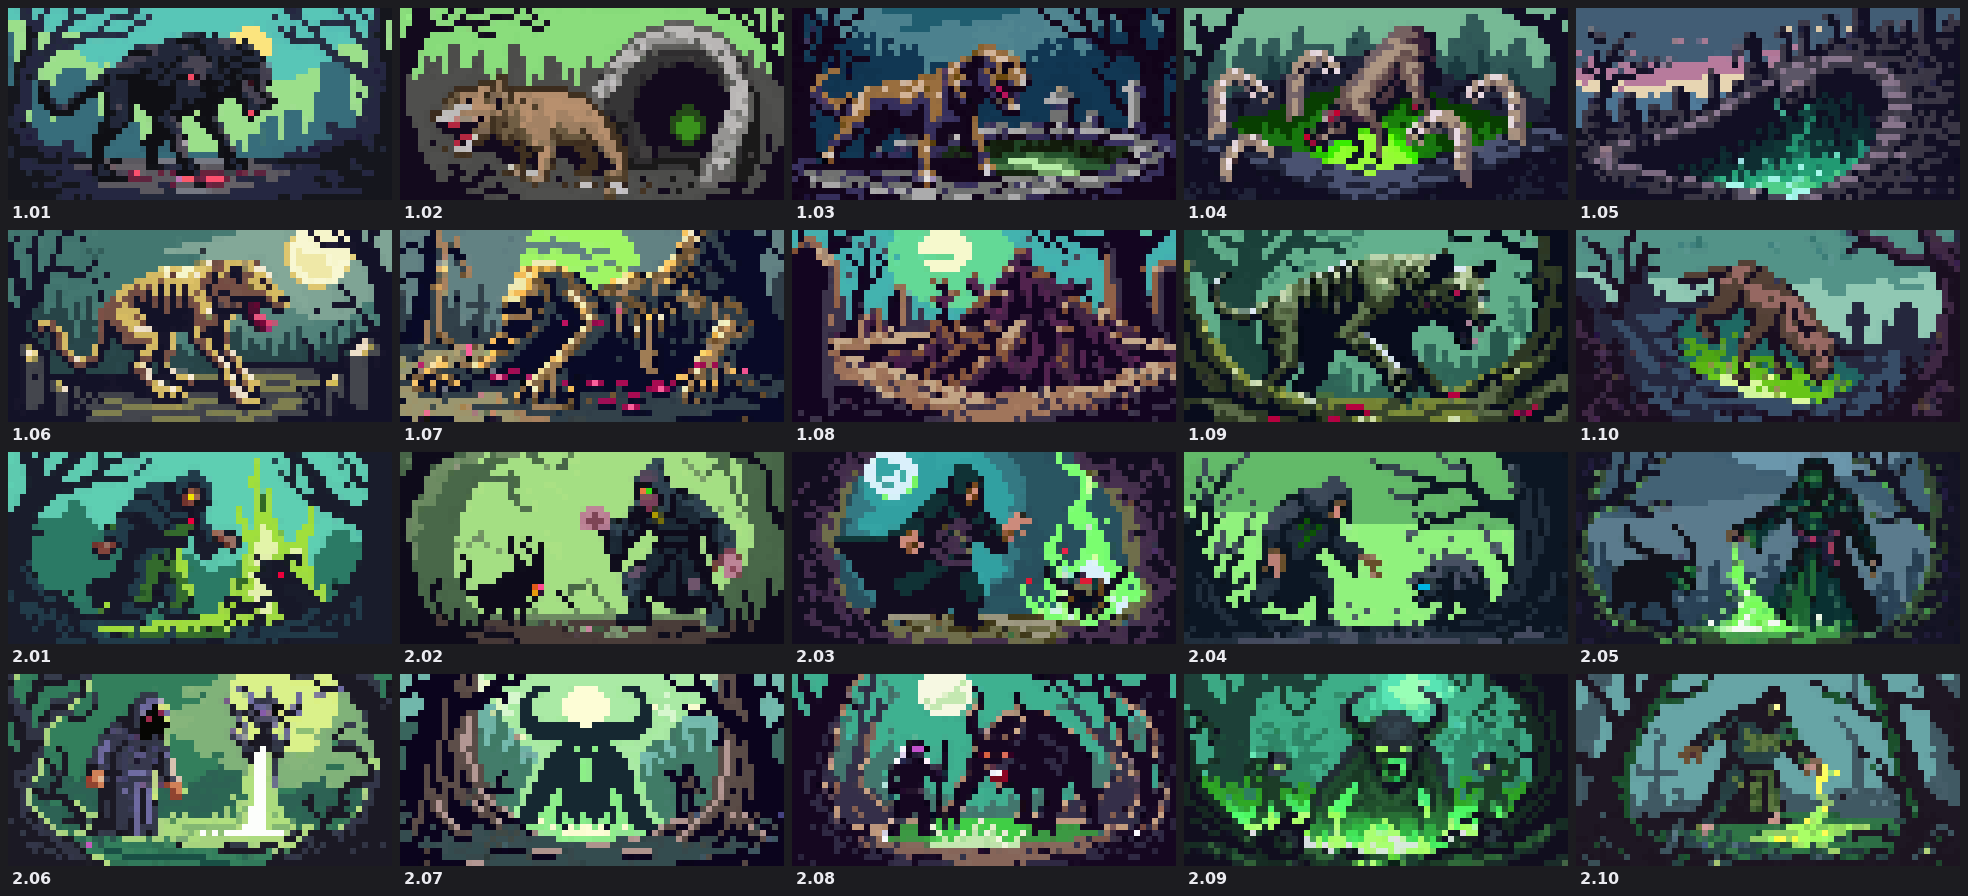
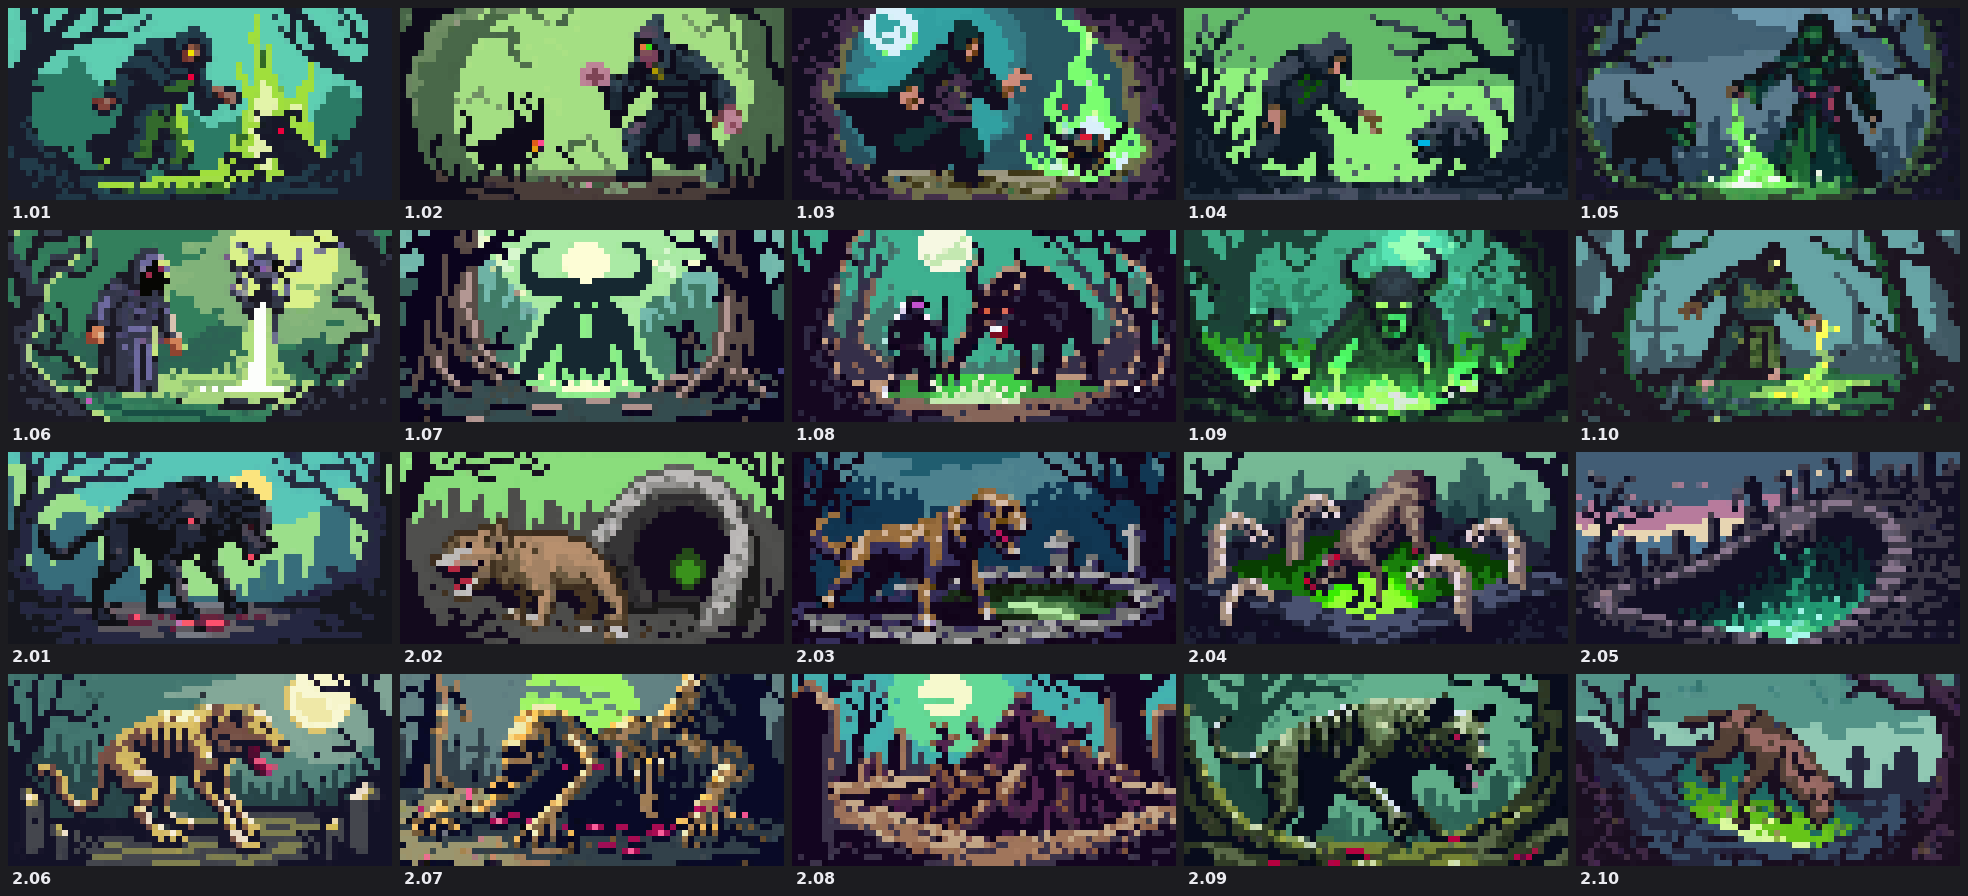
Durability fix: committed reset-proof art-eval harness + skill snapshots + run-root seeds
Root cause: container restores from a snapshot near 9923e7a, wiping any uncommitted
file. C2 variant and shared seed pools lived in gitignored locations and got wiped
mid-session (one treatment arm silently ran control). Fixes: harness.py (single
source of truth, deterministic seeds/labels, preflight + selftest), committed
control+variant snapshots, seeds migrated to committed run-root, unarted-only
selection guard, done_cards.txt. Verified: pixflux smoke PASS, selftest PASS,
vile_edict preflight PASS (0 byte-identical cross-arm pairs).

https://claude.ai/code/session_01Ay6YkAXXSZzeTgcias3gJ7

diff --git a/art-eval/harness.py b/art-eval/harness.py
@@ -1,0 +1,210 @@
+#!/usr/bin/env python3
+"""Art-skill A/B harness — committed, reset-proof single source of truth.
+
+WHY THIS EXISTS: the execution container restores from a snapshot pinned near an
+older commit. Every restore rewinds the working tree and DELETES anything not
+committed-and-pushed (and resets .git/info/exclude). Earlier rounds lost the C2
+variant file and the shared seed pool because they lived in gitignored locations
+(.claude/skills/... and art-eval/runs/<run>/_meta/). This module keeps every
+harness input either (a) deterministically recomputable from the card name, or
+(b) at a committed path, so a mid-round reset can never silently corrupt a round.
+
+USAGE
+  python3 art-eval/harness.py pool                 # list unarted, not-done cards
+  python3 art-eval/harness.py pick [salt]          # deterministic card pick
+  python3 art-eval/harness.py init <run> <card>    # make dirs + committed seeds.json
+  python3 art-eval/harness.py preflight <run>      # verify a round before judging
+  python3 art-eval/harness.py sheet <run> <card>   # build blind contact sheet
+  python3 art-eval/harness.py decode <run>         # reveal which label is control/treatment
+  python3 art-eval/harness.py selftest             # check stack health (no pixflux)
+
+INVARIANTS enforced:
+  - card MUST be unarted (no reference/.../art.png) and not in done_cards.txt
+  - seeds.json lives at run ROOT (committed), never under _meta/ (gitignored)
+  - both arms MUST share the identical seed pool
+  - the C2 variant is read from art-eval/variants/SKILL-c2-variant.md (committed)
+    and MUST differ from the control base by exactly the diagnosable-flaw paragraph
+"""
+import sys, os, json, glob, re, random, hashlib
+from pathlib import Path
+
+ROOT     = Path(__file__).resolve().parent.parent
+CARDS    = ROOT / "reference/html-proto/cards"
+RUNS     = ROOT / "art-eval/runs"
+VARIANTS = ROOT / "art-eval/variants"
+SHEETS   = ROOT / "docs/art-eval-sheets"
+DONEFILE = ROOT / "art-eval/done_cards.txt"
+
+CONTROL_SKILL = VARIANTS / "SKILL-control.md"
+C2_VARIANT    = VARIANTS / "SKILL-c2-variant.md"
+
+def stable_int(s: str) -> int:
+    """Deterministic across machines/python versions (built-in hash() is not)."""
+    return int(hashlib.md5(s.encode()).hexdigest(), 16)
+
+def done_set() -> set:
+    if not DONEFILE.exists():
+        return set()
+    return {l.strip() for l in DONEFILE.read_text().splitlines()
+            if l.strip() and not l.startswith("#")}
+
+def unarted_pool() -> list:
+    out = []
+    for d in sorted(CARDS.iterdir()):
+        if not d.is_dir():
+            continue
+        if (d / "art.png").exists():       # already has art -> not eligible
+            continue
+        out.append(d.name)
+    return out
+
+def candidates() -> list:
+    done = done_set()
+    return [c for c in unarted_pool() if c not in done]
+
+def pick_card(salt: str = "") -> str:
+    cands = candidates()
+    if not cands:
+        raise SystemExit("no eligible cards left")
+    return random.Random(stable_int("pick:" + salt)).choice(cands)
+
+def seeds_for(card: str, n: int = 10) -> list:
+    rng = random.Random(stable_int("seeds:" + card))
+    return [rng.randint(1, 2_147_483_646) for _ in range(n)]
+
+def label_map(card: str) -> dict:
+    """Deterministic, recomputable blind labels. arm_a/arm_b -> '1'/'2'.
+    Recomputable from the card name alone, so a reset can't lose the answer key."""
+    swap = stable_int("label:" + card) % 2 == 1
+    return {"1": "arm_b", "2": "arm_a"} if swap else {"1": "arm_a", "2": "arm_b"}
+
+def variant_ok() -> tuple:
+    """Return (ok, msg). Variant must be control + exactly the C2 paragraph."""
+    if not C2_VARIANT.exists() or not CONTROL_SKILL.exists():
+        return False, "missing committed skill snapshot(s) under art-eval/variants/"
+    ctrl = CONTROL_SKILL.read_text().splitlines()
+    var  = C2_VARIANT.read_text().splitlines()
+    added = [l for l in var if l not in ctrl]
+    sig = "diagnosable-flaw"
+    if not any(sig in l for l in added):
+        return False, "variant does not contain the C2 diagnosable-flaw paragraph"
+    return True, f"variant = control + {len(added)} added line(s) incl. C2 paragraph"
+
+def _real_gens(armdir: Path) -> list:
+    return sorted([f for f in armdir.glob("gen_*_seed*.png") if "_8x" not in f.name],
+                  key=lambda f: int(re.search(r"gen_(\d+)_seed", f.name).group(1)))
+
+def init_run(run: str, card: str):
+    if (CARDS / card / "art.png").exists():
+        raise SystemExit(f"REFUSED: {card} already has art.png (not an unarted card)")
+    if card in done_set():
+        raise SystemExit(f"REFUSED: {card} is in done_cards.txt")
+    rd = RUNS / run
+    for a in ("arm_a", "arm_b", "_meta"):
+        (rd / a).mkdir(parents=True, exist_ok=True)
+    seeds = seeds_for(card)
+    (rd / "seeds.json").write_text(json.dumps(seeds))   # run-root => COMMITTED
+    print(f"init {run} for {card}")
+    print("seeds (committed at run-root):", seeds)
+    print("control skill :", CONTROL_SKILL)
+    print("variant skill :", C2_VARIANT)
+    ok, msg = variant_ok(); print("variant check :", "OK" if ok else "FAIL", "-", msg)
+
+def preflight(run: str):
+    rd = RUNS / run
+    sj = rd / "seeds.json"
+    problems = []
+    if not sj.exists():
+        problems.append("seeds.json missing at run-root (was it left in gitignored _meta/?)")
+        pool = None
+    else:
+        pool = sorted(json.loads(sj.read_text()))
+    for arm in ("arm_a", "arm_b"):
+        gens = _real_gens(rd / arm)
+        if len(gens) == 0:
+            problems.append(f"{arm}: no gens"); continue
+        seeds = sorted(int(re.search(r"seed(\d+)", g.name).group(1)) for g in gens)
+        if pool is not None and seeds != pool:
+            problems.append(f"{arm}: seeds do not match shared pool")
+        print(f"{arm}: {len(gens)} gens, seeds match pool: {pool is not None and seeds==pool}")
+    # contamination heuristic: arms must not be byte-identical pairwise
+    a = {re.search(r'seed(\d+)', g.name).group(1): g for g in _real_gens(rd/'arm_a')}
+    b = {re.search(r'seed(\d+)', g.name).group(1): g for g in _real_gens(rd/'arm_b')}
+    ident = sum(1 for s in a if s in b and a[s].read_bytes() == b[s].read_bytes())
+    if ident:
+        problems.append(f"{ident} arm_a/arm_b gens are BYTE-IDENTICAL (possible control-vs-control)")
+    print(f"byte-identical cross-arm pairs: {ident} (want 0)")
+    ok, msg = variant_ok(); print("variant check:", "OK" if ok else "FAIL", "-", msg)
+    if problems:
+        print("PREFLIGHT: FAIL"); [print("  -", p) for p in problems]; sys.exit(1)
+    print("PREFLIGHT: PASS")
+
+def build_sheet(run: str, card: str):
+    from PIL import Image, ImageDraw, ImageFont
+    rd = RUNS / run
+    SCALE, LABEL_H, PAD, COLS = 6, 22, 8, 5
+    CW, CH = 64 * SCALE, 32 * SCALE
+    m = label_map(card)
+    cells = []
+    for lbl in ("1", "2"):
+        for i, f in enumerate(_real_gens(rd / m[lbl]), 1):
+            cells.append((f"{lbl}.{i:02d}", f))
+    rows = (len(cells) + COLS - 1) // COLS
+    W = COLS * CW + (COLS + 1) * PAD
+    H = rows * (CH + LABEL_H) + (rows + 1) * PAD
+    sheet = Image.new("RGB", (W, H), (28, 28, 32)); d = ImageDraw.Draw(sheet)
+    try:    font = ImageFont.truetype("/usr/share/fonts/truetype/dejavu/DejaVuSans-Bold.ttf", 16)
+    except: font = ImageFont.load_default()
+    for idx, (label, f) in enumerate(cells):
+        r, c = divmod(idx, COLS)
+        x = PAD + c * (CW + PAD); y = PAD + r * (CH + LABEL_H + PAD)
+        sheet.paste(Image.open(f).convert("RGB").resize((CW, CH), Image.NEAREST), (x, y))
+        d.text((x + 4, y + CH + 3), label, fill=(235, 235, 240), font=font)
+    SHEETS.mkdir(parents=True, exist_ok=True)
+    out = SHEETS / f"{card}_c2ab_sheet.png"
+    sheet.save(out)
+    # answer key stays in gitignored _meta/ (out of the user's blind view); also recomputable
+    (rd / "_meta").mkdir(parents=True, exist_ok=True)
+    (rd / "_meta" / "blind_map.json").write_text(json.dumps(m))
+    print(f"sheet: {sheet.size} -> {out}")
+    print("(label mapping is recomputable via `decode`; not revealed here)")
+
+def decode(run: str):
+    # infer card from run name suffix
+    card = run.split("-", 2)[-1]
+    m = label_map(card)
+    roles = {"arm_a": "CONTROL (SKILL-control.md)", "arm_b": "TREATMENT (C2 variant)"}
+    inv = {v: k for k, v in m.items()}
+    print(f"run={run} card={card}")
+    print(f"  label 1 = {m['1']} = {roles[m['1']]}")
+    print(f"  label 2 = {m['2']} = {roles[m['2']]}")
+    print(f"  control shown as label {inv['arm_a']}; treatment shown as label {inv['arm_b']}")
+
+def selftest():
+    print("=== art-eval harness selftest (no pixflux) ===")
+    print("repo root      :", ROOT)
+    print("unarted cards  :", len(unarted_pool()))
+    print("done cards     :", len(done_set()))
+    print("eligible cards :", len(candidates()))
+    ok, msg = variant_ok(); print("variant check  :", "OK" if ok else "FAIL", "-", msg)
+    tok = (ROOT / ".claude/skills/magiclike-card-art/pixellab-token")
+    print("token present  :", tok.exists(),
+          "(format ok)" if tok.exists() and tok.read_text().strip().lower().startswith("bearer ") else "")
+    # determinism check
+    c = "lightning_bolt"
+    print("determinism    : seeds_for(%s)[0]=%d (stable), label1=%s" %
+          (c, seeds_for(c)[0], label_map(c)["1"]))
+    print("SELFTEST:", "PASS" if ok and tok.exists() else "FAIL")
+
+if __name__ == "__main__":
+    if len(sys.argv) < 2:
+        print(__doc__); sys.exit(0)
+    cmd = sys.argv[1]; a = sys.argv[2:]
+    {"pool":     lambda: print("\n".join(candidates())),
+     "pick":     lambda: print(pick_card(a[0] if a else "")),
+     "init":     lambda: init_run(a[0], a[1]),
+     "preflight":lambda: preflight(a[0]),
+     "sheet":    lambda: build_sheet(a[0], a[1]),
+     "decode":   lambda: decode(a[0]),
+     "selftest": selftest,
+    }.get(cmd, lambda: print(f"unknown cmd {cmd}\n{__doc__}"))()

diff --git a/docs/art-eval-findings.md b/docs/art-eval-findings.md
@@ -297,3 +297,21 @@ IMPLICATION: the LLM judge is usable as a COARSE pre-filter (cull obvious losers
 - **Card-selection error:** I shuffled the html-proto card list without filtering on art presence; prodigal_sorcerer **already has `art.png`**. The harness pool is supposed to be *unarted* cards only. The done-set cards (horned_herald, old_guardian, bindspeaker, knight_commander, mirror_sage, apex_hunter, …) all have NO `art.png` — that IS the selection criterion. **FIX (binding): only draw cards from `reference/html-proto/cards/<c>/` that lack an `art.png` file** (121 such cards remain, minus the done set). Built the corrected pool.
 - Round still ran (control SKILL.md vs C2-variant, shared 10-seed pool, blind sheet `prodigal_sorcerer_c2ab_sheet.png`). **User read: disliked ALL; slight lean to 2.x.** Decoding the blind map: label 2 = arm_a = **control**. So a faint anti-treatment lean — but on a disqualified card, so **NOT counted** toward the C2 n>=7 tally.
 - Art kept committed (downloadable) under `art-eval/runs/skillab-c2-prodigal_sorcerer/`. C2 tally stands at n=6 (4 C2 / 1 control / 1 inconclusive). Re-rolling a genuinely-unarted card (vile_edict) as the real #7.
+
+## ===== TECH-STACK AUDIT (user-requested "take a beat") =====
+Trigger: recurring file loss (C2 variant wiped; seed pool churn) + a card picked that already had art.
+**Root cause (single):** the execution container restores from a snapshot pinned near commit `9923e7a`. Each restore rewinds the working tree and DELETES anything not committed-and-pushed, and resets `.git/info/exclude`. Harness inputs parked in gitignored spots vanished mid-session:
+- `SKILL-c2-variant.md` (gitignored in skill dir) -> wiped -> a treatment agent silently fell back to control (control-vs-control). FIXED: committed under `art-eval/variants/{SKILL-control.md,SKILL-c2-variant.md}`.
+- shared `seeds.json` placed under gitignored `_meta/` for prodigal+vile_edict (older runs correctly used run-ROOT). FIXED: migrated to run-root (committed); harness writes seeds at run-root.
+- card selection didn't filter on `art.png`. FIXED: harness `pool`/`init` REFUSE arted or done cards.
+**Verification this session (all green):**
+- Live pixflux smoke test: 200, base64 -> 64x32 RGBA PNG. API+token+decode path healthy.
+- `harness.py selftest`: PASS (variant = control + C2 paragraph; token format OK; 120 eligible cards).
+- `harness.py preflight skillab-c2-vile_edict`: PASS (both arms 10 gens, seeds match pool, **0 byte-identical cross-arm pairs** => genuinely treatment-vs-control).
+- No active processes (jobs empty; no python/curl procs). The "3 processes" the user saw = completed background-agent task cards in the UI; nothing computing.
+**New durable harness** `art-eval/harness.py` (committed): unarted-pool/pick/init/preflight/sheet/decode/selftest. Seeds + blind labels are DETERMINISTIC from card name (recomputable after any reset). Labeling standardized (deterministic) — replaces the old inline random labeler that could desync sheet vs decode.
+
+## C2 A/B #7 (real) — vile_edict (2B Sorcery; forced sacrifice -> grave)
+- Valid round (preflight PASS). Control = robed-sorcerer-claims-victim framing; C2 = skeletal-hands-drag-victim-into-grave framing.
+- **User gold: reject-all; "none in line with what I want," both branches "roughly similar quality."** => INCONCLUSIVE (no C2 advantage detected on this card). NOTE: subject-prior dominance fought the mechanic in BOTH arms (the "dragged down" beat rarely resolved; rolls collapsed to a creature merely standing in a graveyard).
+- C2 tally on user gold (n=7 clean): horned_herald, knight_commander, bindspeaker, old_guardian = **4 C2**; lightning_bolt = **1 control**; dark_ritual, vile_edict = **2 inconclusive**. Hit the n>=7 floor; trend = C2-positive (4 wins, 0 losses to control among decisive cards) but with 2 nulls.